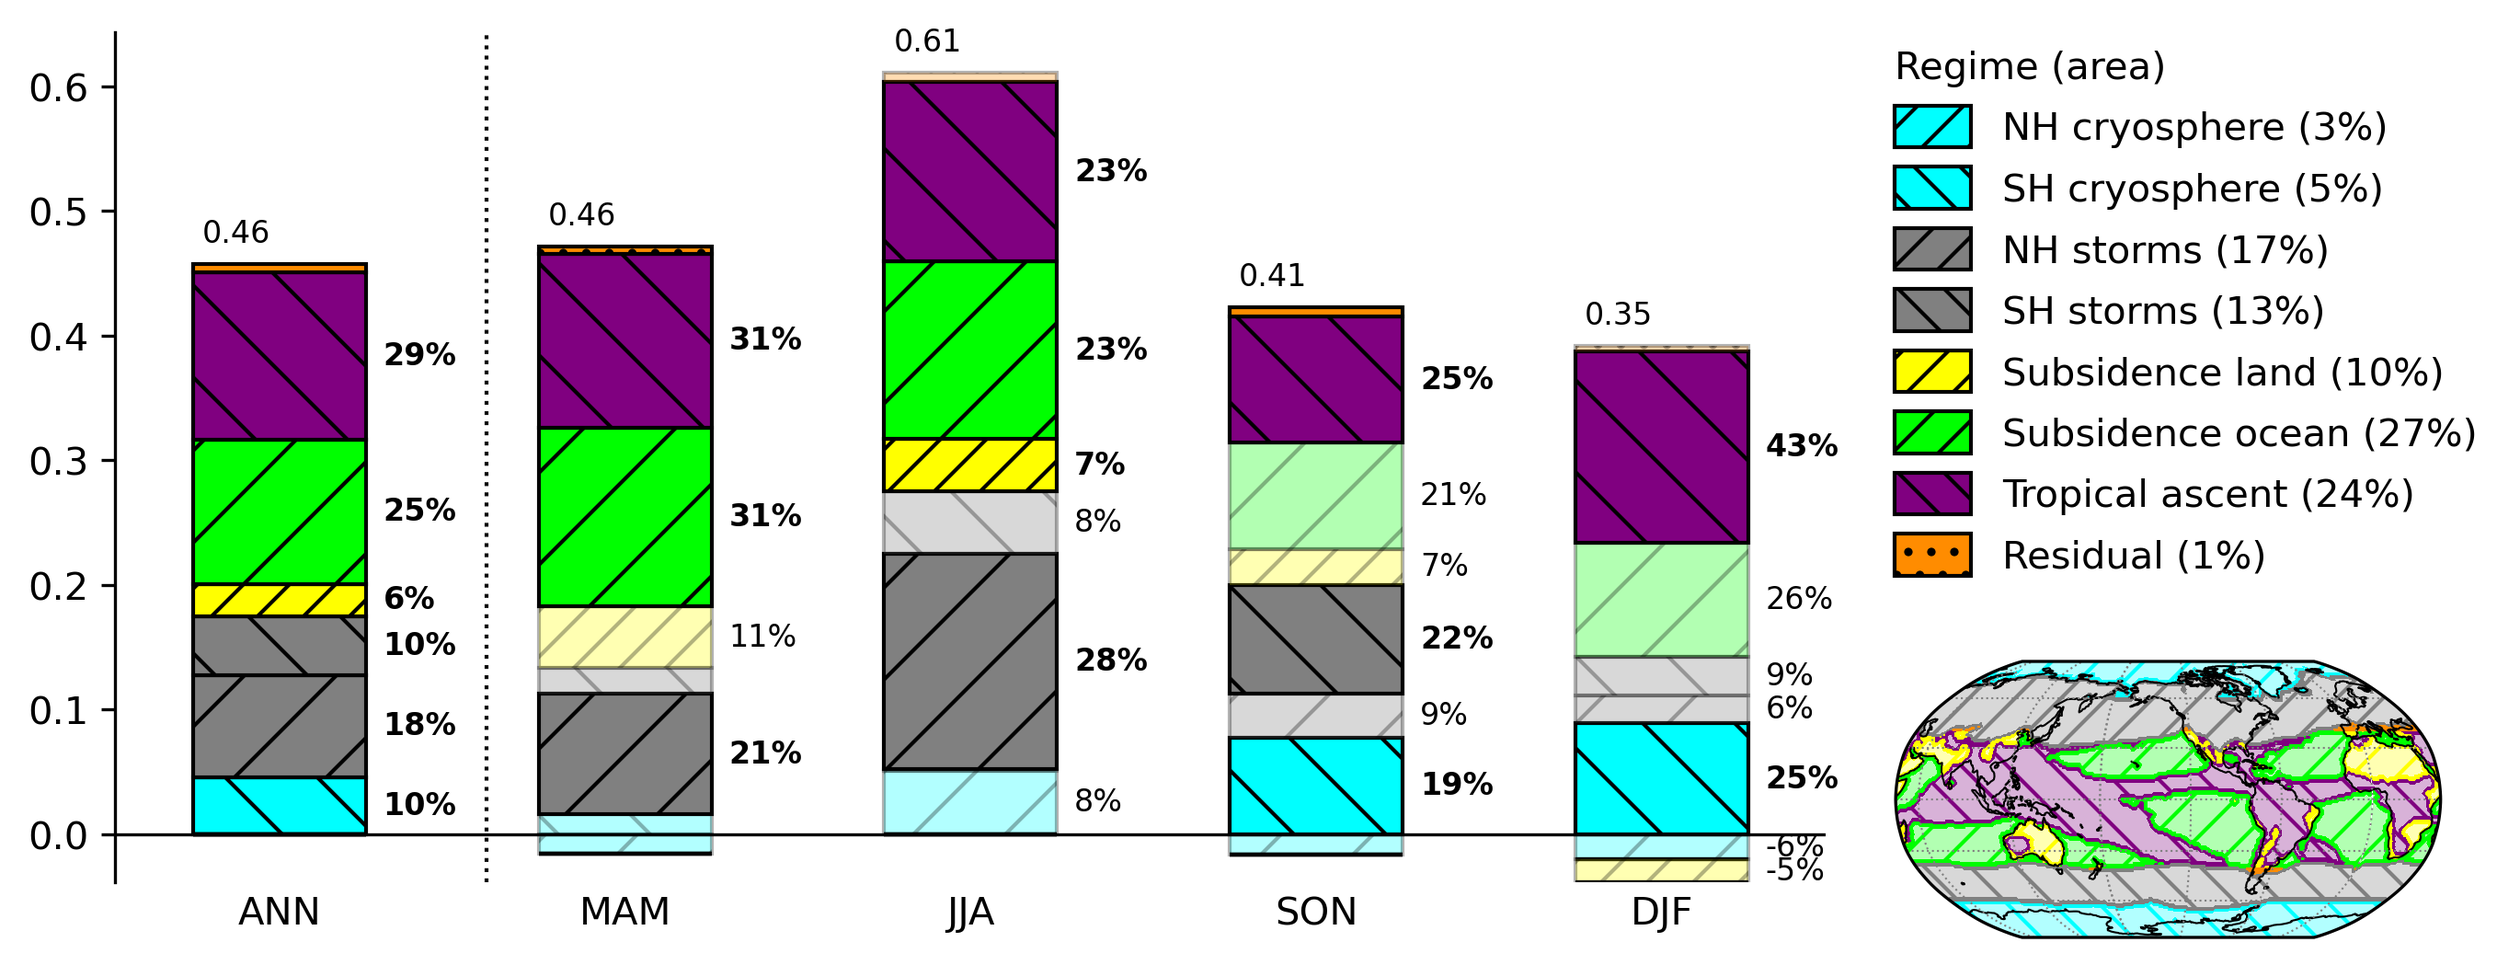
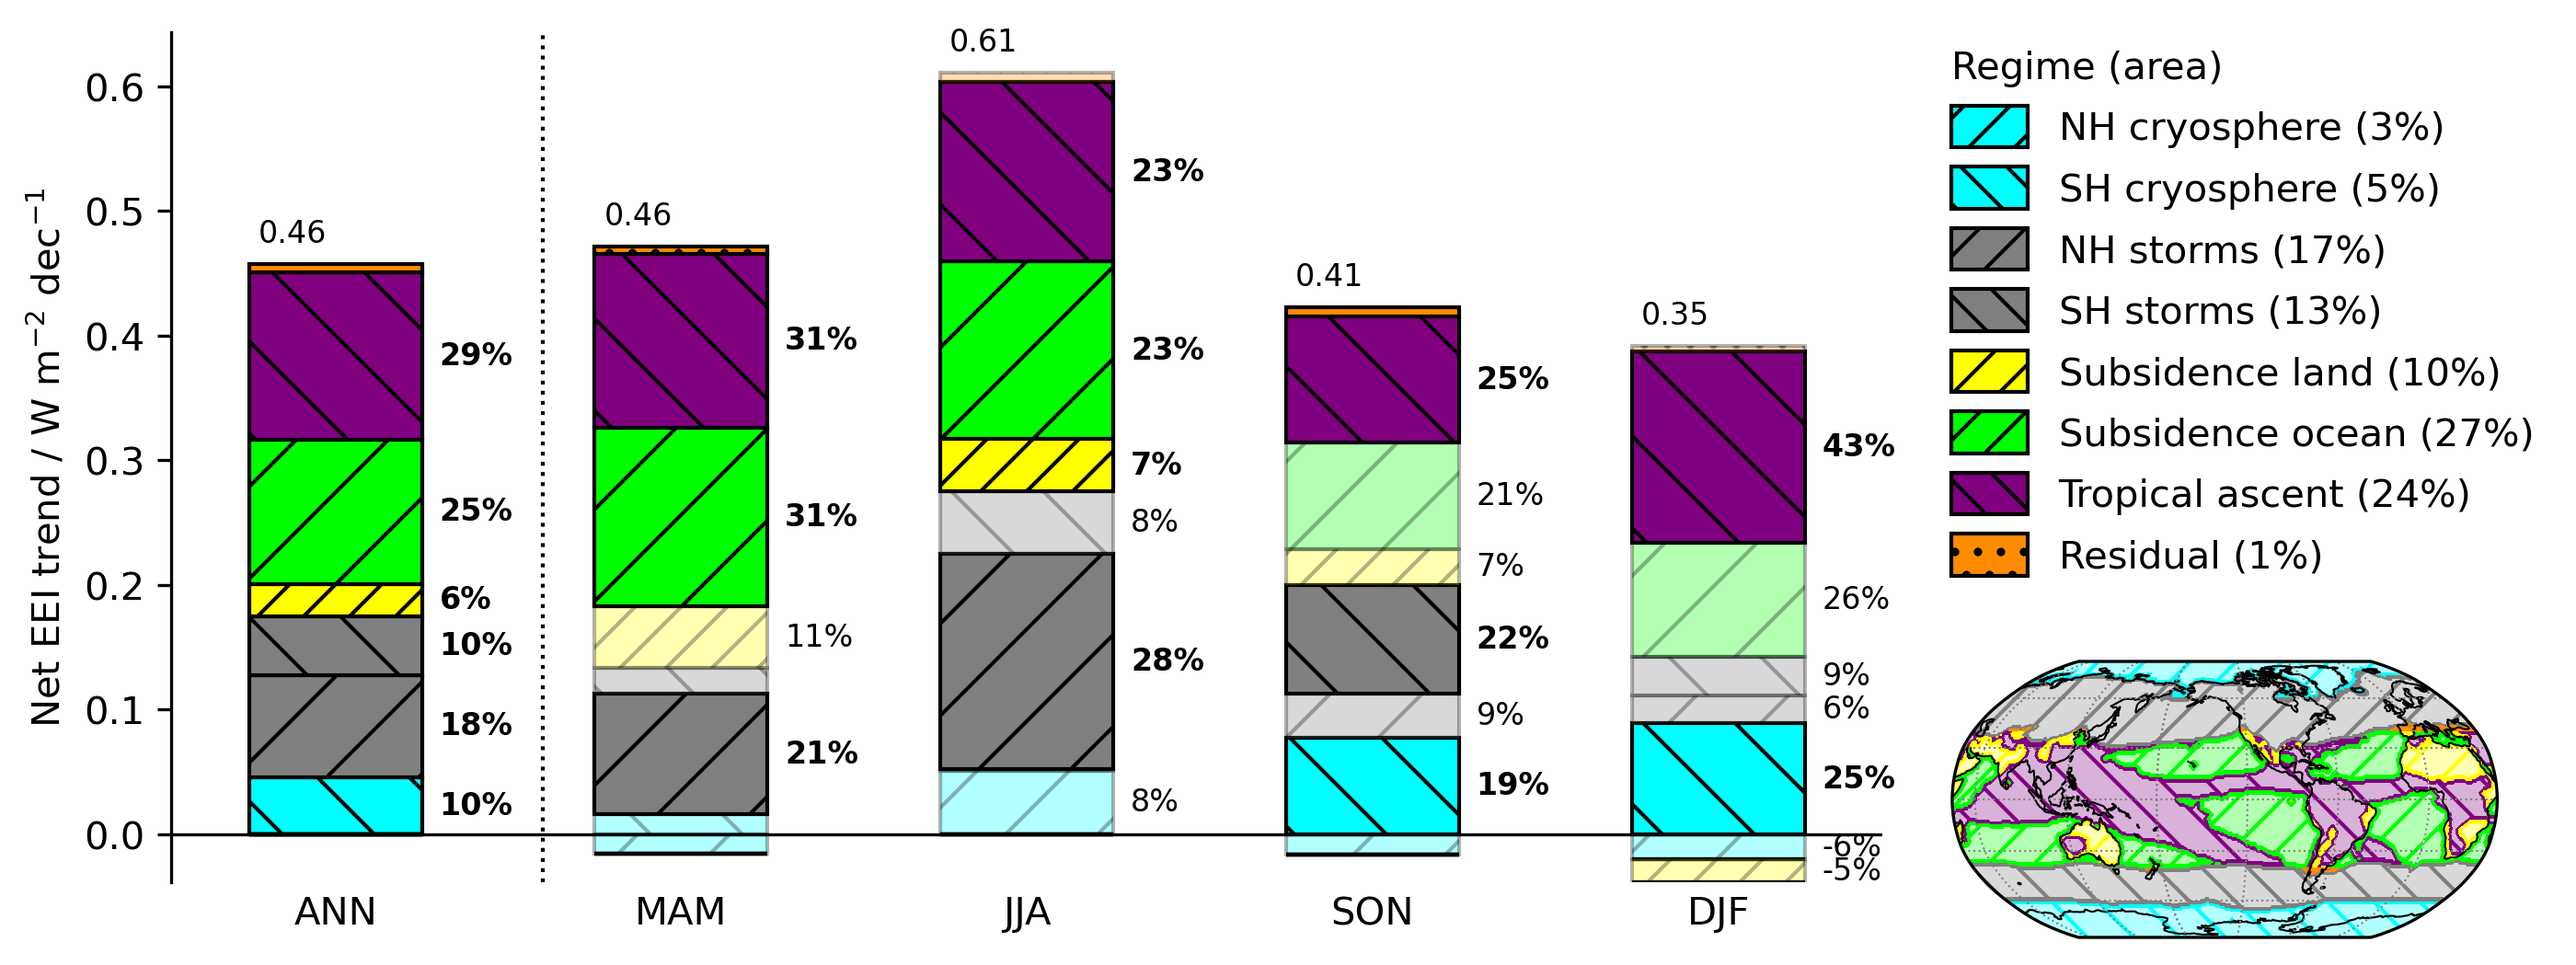
accidentally delete ylabel

diff --git a/make_figs/barchart.py b/make_figs/barchart.py
@@ -136,9 +136,9 @@ def do_barchart(regime_trend_file="pp/regime_mean_trends.nc", PLOT_VAR="net", ex
     ax.axhline(0, color="k", linewidth=0.8)
 
     if PLOT_VAR == "net":
-        plt.ylabel(f"{PLOT_VAR[0].upper()+PLOT_VAR[1:]} EEI trend / W m$^{{-2}}$ dec$^{{-1}}$")
+        ax.set_ylabel(f"{PLOT_VAR[0].upper()+PLOT_VAR[1:]} EEI trend / W m$^{{-2}}$ dec$^{{-1}}$")
     else:
-        plt.ylabel(f"{PLOT_VAR.upper()} EEI trend / W m$^{{-2}}$ dec$^{{-1}}$")
+        ax.set_ylabel(f"{PLOT_VAR.upper()} EEI trend / W m$^{{-2}}$ dec$^{{-1}}$")
 
     # print numbers
     if PLOT_VAR == "net":
